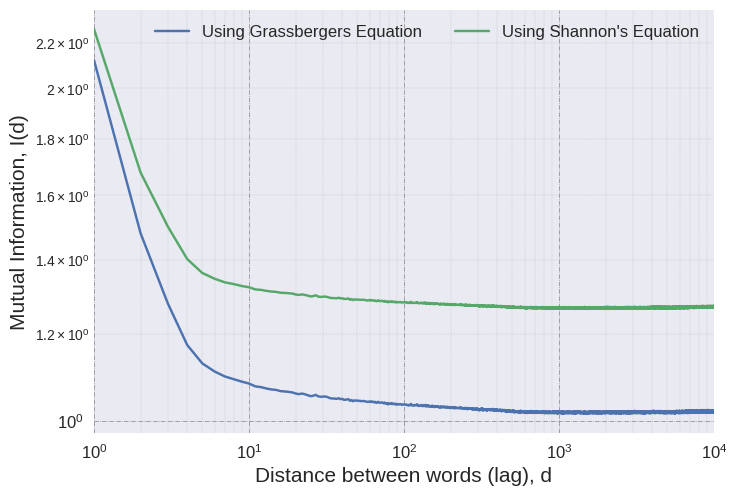
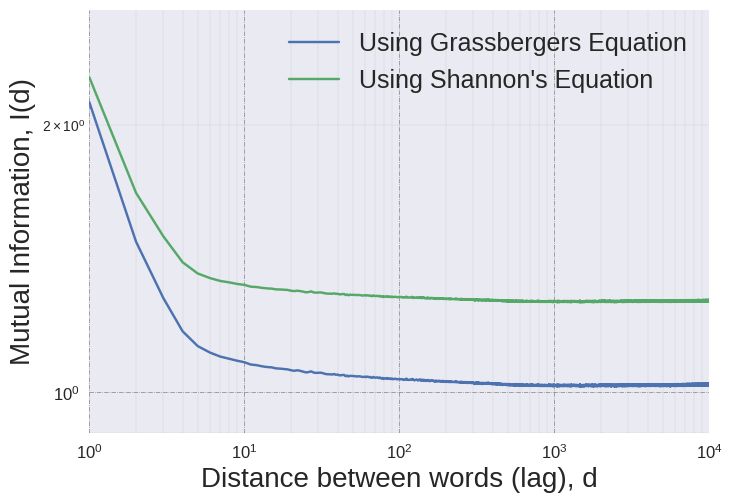
Up new

diff --git a/paper_related/plot_mi.py b/paper_related/plot_mi.py
@@ -4,8 +4,8 @@ import seaborn as sns
 import matplotlib.pyplot as plt
 import numpy as np
 
-# filenames = ["penn_tree_words_10000_grassberger_logx_mi.dat","penn_tree_words_10000_standard_logx_mi.dat"]
-filenames = ["wiki2_words_10000_grassberger_logx_mi.dat","wiki2_words_10000_standard_logx_mi.dat"]
+filenames = ["penn_tree_words_10000_grassberger_logx_mi.dat","penn_tree_words_10000_standard_logx_mi.dat"]
+# filenames = ["wiki2_words_10000_grassberger_logx_mi.dat","wiki2_words_10000_standard_logx_mi.dat"]
 
 all_mi = []
 all_hx = []
@@ -66,5 +66,5 @@ with plt.style.context(('seaborn')):
     ax.set_xlabel('Distance between words (lag), d', fontsize=20)
     ax.set_ylabel('Mutual Information, I(d)', fontsize=20)
     lgd = ax.legend(loc='upper right', shadow=True, fancybox=True, numpoints=1, prop={'size': 18})
-    plt.savefig('mi_intro_wiki2', bbox_extra_artists=(lgd,), bbox_inches='tight')
+    plt.savefig('mi_intro_ptb', bbox_extra_artists=(lgd,), bbox_inches='tight')
     plt.show()
